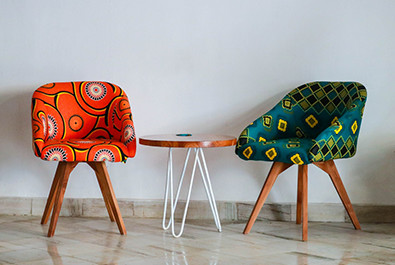
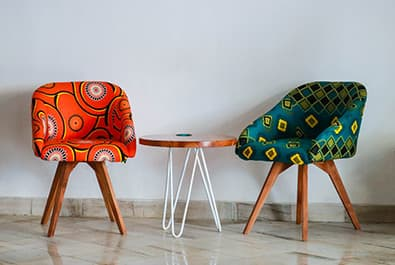
PP

diff --git a/index.html b/index.html
@@ -204,7 +204,7 @@
         <div class="col-md-6 col-lg-4">
           <div class="box">
             <div class="img-box">
-              <img src="images/f1.png" alt="">
+              <img src="images/f1.webp" alt="">
             </div>
             <div class="detail-box">
               <h5>
@@ -224,7 +224,7 @@
         <div class="col-md-6 col-lg-4">
           <div class="box">
             <div class="img-box">
-              <img src="images/f2.png" alt="">
+              <img src="images/f2.webp" alt="">
             </div>
             <div class="detail-box">
               <h5>
@@ -244,7 +244,7 @@
         <div class="col-md-6 col-lg-4">
           <div class="box">
             <div class="img-box">
-              <img src="images/f3.png" alt="">
+              <img src="images/f3.webp" alt="">
             </div>
             <div class="detail-box">
               <h5>
@@ -264,7 +264,7 @@
         <div class="col-md-6 col-lg-4">
           <div class="box">
             <div class="img-box">
-              <img src="images/f4.png" alt="">
+              <img src="images/f4.webp" alt="">
             </div>
             <div class="detail-box">
               <h5>
@@ -284,7 +284,7 @@
         <div class="col-md-6 col-lg-4">
           <div class="box">
             <div class="img-box">
-              <img src="images/f5.png" alt="">
+              <img src="images/f5.webp" alt="">
             </div>
             <div class="detail-box">
               <h5>
@@ -304,7 +304,7 @@
         <div class="col-md-6 col-lg-4">
           <div class="box">
             <div class="img-box">
-              <img src="images/f6.png" alt="">
+              <img src="images/f6.webp" alt="">
             </div>
             <div class="detail-box">
               <h5>
@@ -335,7 +335,7 @@
       <div class="row">
         <div class="col-md-6">
           <div class="img-box">
-            <img src="images/about-img.png" alt="">
+            <img src="images/about-img.webp" alt="">
           </div>
         </div>
         <div class="col-md-6">
@@ -621,22 +621,22 @@
               </h5>
               <div class="post_box">
                 <div class="img-box">
-                  <img src="images/f1.png" alt="">
+                  <img src="images/f1.webp" alt="">
                 </div>
                 <div class="img-box">
-                  <img src="images/f2.png" alt="">
+                  <img src="images/f2.webp" alt="">
                 </div>
                 <div class="img-box">
-                  <img src="images/f3.png" alt="">
+                  <img src="images/f3.webp" alt="">
                 </div>
                 <div class="img-box">
-                  <img src="images/f4.png" alt="">
+                  <img src="images/f4.webp" alt="">
                 </div>
                 <div class="img-box">
-                  <img src="images/f5.png" alt="">
+                  <img src="images/f5.webp" alt="">
                 </div>
                 <div class="img-box">
-                  <img src="images/f6.png" alt="">
+                  <img src="images/f6.webp" alt="">
                 </div>
               </div>
             </div>

diff --git a/furniture.html b/furniture.html
@@ -102,7 +102,7 @@
         <div class="col-md-6 col-lg-4">
           <div class="box">
             <div class="img-box">
-              <img src="images/f1.png" alt="">
+              <img src="images/f1.webp" alt="">
             </div>
             <div class="detail-box">
               <h5>
@@ -122,7 +122,7 @@
         <div class="col-md-6 col-lg-4">
           <div class="box">
             <div class="img-box">
-              <img src="images/f2.png" alt="">
+              <img src="images/f2.webp" alt="">
             </div>
             <div class="detail-box">
               <h5>
@@ -142,7 +142,7 @@
         <div class="col-md-6 col-lg-4">
           <div class="box">
             <div class="img-box">
-              <img src="images/f3.png" alt="">
+              <img src="images/f3.webp" alt="">
             </div>
             <div class="detail-box">
               <h5>
@@ -162,7 +162,7 @@
         <div class="col-md-6 col-lg-4">
           <div class="box">
             <div class="img-box">
-              <img src="images/f4.png" alt="">
+              <img src="images/f4.webp" alt="">
             </div>
             <div class="detail-box">
               <h5>
@@ -182,7 +182,7 @@
         <div class="col-md-6 col-lg-4">
           <div class="box">
             <div class="img-box">
-              <img src="images/f5.png" alt="">
+              <img src="images/f5.webp" alt="">
             </div>
             <div class="detail-box">
               <h5>
@@ -202,7 +202,7 @@
         <div class="col-md-6 col-lg-4">
           <div class="box">
             <div class="img-box">
-              <img src="images/f6.png" alt="">
+              <img src="images/f6.webp" alt="">
             </div>
             <div class="detail-box">
               <h5>
@@ -273,22 +273,22 @@
               </h5>
               <div class="post_box">
                 <div class="img-box">
-                  <img src="images/f1.png" alt="">
+                  <img src="images/f1.webp" alt="">
                 </div>
                 <div class="img-box">
-                  <img src="images/f2.png" alt="">
+                  <img src="images/f2.webp" alt="">
                 </div>
                 <div class="img-box">
-                  <img src="images/f3.png" alt="">
+                  <img src="images/f3.webp" alt="">
                 </div>
                 <div class="img-box">
-                  <img src="images/f4.png" alt="">
+                  <img src="images/f4.webp" alt="">
                 </div>
                 <div class="img-box">
-                  <img src="images/f5.png" alt="">
+                  <img src="images/f5.webp" alt="">
                 </div>
                 <div class="img-box">
-                  <img src="images/f6.png" alt="">
+                  <img src="images/f6.webp" alt="">
                 </div>
               </div>
             </div>

diff --git a/about.html b/about.html
@@ -93,7 +93,7 @@
       <div class="row">
         <div class="col-md-6">
           <div class="img-box">
-            <img src="images/about-img.png" alt="">
+            <img src="images/about-img.webp" alt="">
           </div>
         </div>
         <div class="col-md-6">
@@ -166,22 +166,22 @@
               </h5>
               <div class="post_box">
                 <div class="img-box">
-                  <img src="images/f1.png" alt="">
+                  <img src="images/f1.webp" alt="">
                 </div>
                 <div class="img-box">
-                  <img src="images/f2.png" alt="">
+                  <img src="images/f2.webp" alt="">
                 </div>
                 <div class="img-box">
-                  <img src="images/f3.png" alt="">
+                  <img src="images/f3.webp" alt="">
                 </div>
                 <div class="img-box">
-                  <img src="images/f4.png" alt="">
+                  <img src="images/f4.webp" alt="">
                 </div>
                 <div class="img-box">
-                  <img src="images/f5.png" alt="">
+                  <img src="images/f5.webp" alt="">
                 </div>
                 <div class="img-box">
-                  <img src="images/f6.png" alt="">
+                  <img src="images/f6.webp" alt="">
                 </div>
               </div>
             </div>

diff --git a/blog.html b/blog.html
@@ -205,22 +205,22 @@
               </h5>
               <div class="post_box">
                 <div class="img-box">
-                  <img src="images/f1.png" alt="">
+                  <img src="images/f1.webp" alt="">
                 </div>
                 <div class="img-box">
-                  <img src="images/f2.png" alt="">
+                  <img src="images/f2.webp" alt="">
                 </div>
                 <div class="img-box">
-                  <img src="images/f3.png" alt="">
+                  <img src="images/f3.webp" alt="">
                 </div>
                 <div class="img-box">
-                  <img src="images/f4.png" alt="">
+                  <img src="images/f4.webp" alt="">
                 </div>
                 <div class="img-box">
-                  <img src="images/f5.png" alt="">
+                  <img src="images/f5.webp" alt="">
                 </div>
                 <div class="img-box">
-                  <img src="images/f6.png" alt="">
+                  <img src="images/f6.webp" alt="">
                 </div>
               </div>
             </div>

diff --git a/contact.html b/contact.html
@@ -178,22 +178,22 @@
               </h5>
               <div class="post_box">
                 <div class="img-box">
-                  <img src="images/f1.png" alt="">
+                  <img src="images/f1.webp" alt="">
                 </div>
                 <div class="img-box">
-                  <img src="images/f2.png" alt="">
+                  <img src="images/f2.webp" alt="">
                 </div>
                 <div class="img-box">
-                  <img src="images/f3.png" alt="">
+                  <img src="images/f3.webp" alt="">
                 </div>
                 <div class="img-box">
-                  <img src="images/f4.png" alt="">
+                  <img src="images/f4.webp" alt="">
                 </div>
                 <div class="img-box">
-                  <img src="images/f5.png" alt="">
+                  <img src="images/f5.webp" alt="">
                 </div>
                 <div class="img-box">
-                  <img src="images/f6.png" alt="">
+                  <img src="images/f6.webp" alt="">
                 </div>
               </div>
             </div>
